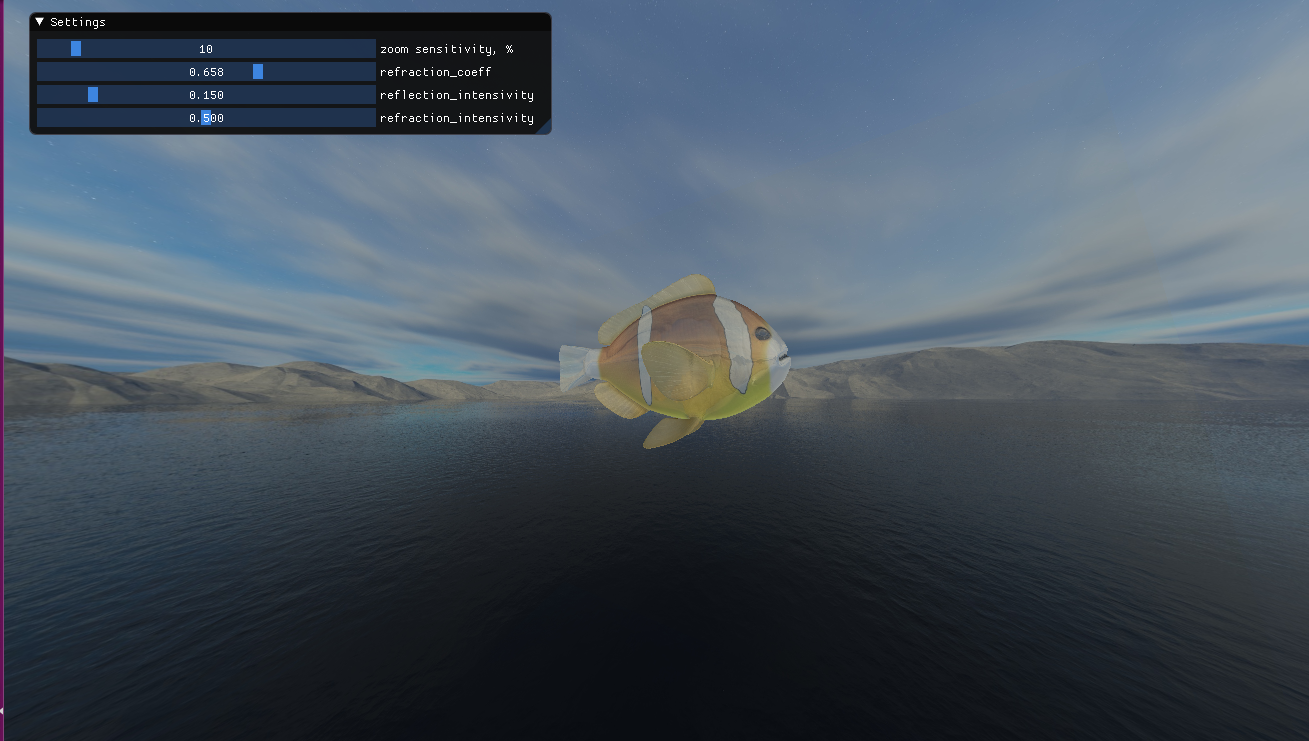
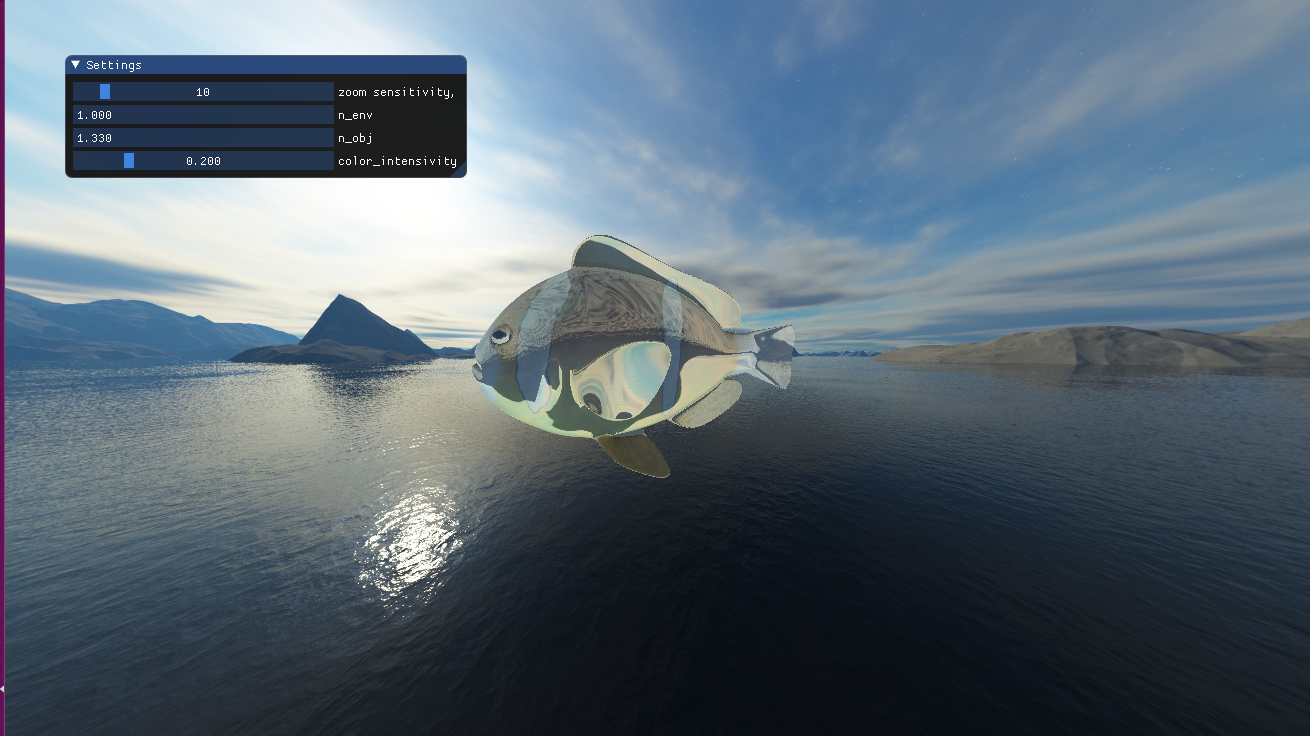
fix

diff --git a/main.cpp b/main.cpp
@@ -145,9 +145,9 @@ int main(int, char **)
    ImGui_ImplOpenGL3_Init(glsl_version);
    ImGui::StyleColorsDark();
 
-   static float reflection = 0.15;
-   static float refraction = 0.5;
-   static float refraction_coeff = 1.00 / 1.52;
+   static float n_env = 1.0;
+   static float n_obj = 1.33;
+   static float color_intensivity = 0.2;
 
    glDepthFunc(GL_LEQUAL);
    glEnable(GL_DEPTH_TEST);
@@ -175,9 +175,9 @@ int main(int, char **)
       // GUI
       ImGui::Begin("Settings");
       ImGui::SliderInt("zoom sensitivity, %", &zoom_sensitivity, 0, 100);
-      ImGui::SliderFloat("refraction_coeff", &refraction_coeff, 0, 1);
-      ImGui::SliderFloat("reflection_intensivity", &reflection, 0, 1);
-      ImGui::SliderFloat("refraction_intensivity", &refraction, 0, 1);
+      ImGui::InputFloat("n_env", &n_env);
+      ImGui::InputFloat("n_obj", &n_obj);
+      ImGui::SliderFloat("color_intensivity", &color_intensivity, 0, 1);
       ImGui::End();
 
         
@@ -215,9 +215,9 @@ int main(int, char **)
       obj_shader.set_uniform("view", glm::value_ptr(view));
       obj_shader.set_uniform("projection", glm::value_ptr(projection));
       obj_shader.set_uniform("camera_position", camera.x, camera.y, camera.z);
-      obj_shader.set_uniform("refraction_coeff", refraction_coeff);
-      obj_shader.set_uniform("reflection_intensivity", reflection);
-      obj_shader.set_uniform("refraction_intensivity", refraction);
+      obj_shader.set_uniform("n_env", n_env);
+      obj_shader.set_uniform("n_obj", n_obj);
+      obj_shader.set_uniform("color_intensivity", color_intensivity);
       obj_shader.set_uniform("obj_texture", 0);
       obj_shader.set_uniform("cubemap_texture", 1);
       obj.render(obj_shader, obj_textute, cubemap_texture);

diff --git a/README.md b/README.md
@@ -22,8 +22,5 @@
 
 ![2](./examples/2.png)
 
-![3](./examples/3.png)
-
-![4](./examples/4.png)
 
 
